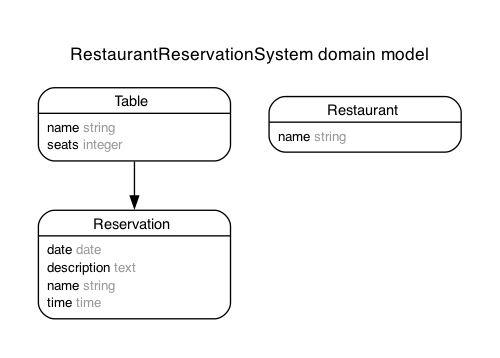
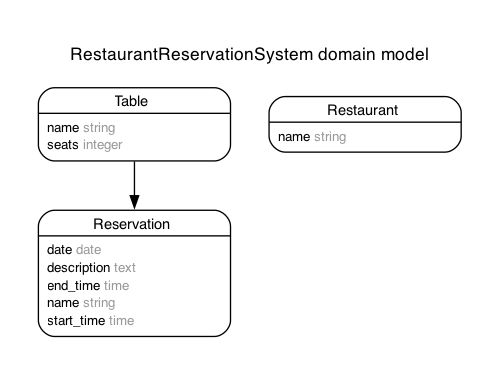
Add start_time and end_time to reservation - Updated sample data to include the start_time and end_time

diff --git a/db/schema.rb b/db/schema.rb
@@ -10,15 +10,16 @@
 #
 # It's strongly recommended that you check this file into your version control system.
 
-ActiveRecord::Schema[7.1].define(version: 2024_09_04_180216) do
+ActiveRecord::Schema[7.1].define(version: 2024_09_04_185956) do
   create_table "reservations", force: :cascade do |t|
     t.string "name"
     t.text "description"
     t.date "date"
-    t.time "time"
     t.datetime "created_at", null: false
     t.datetime "updated_at", null: false
     t.integer "table_id"
+    t.time "start_time"
+    t.time "end_time"
     t.index ["table_id"], name: "index_reservations_on_table_id"
   end
 

diff --git a/app/controllers/reservations_controller.rb b/app/controllers/reservations_controller.rb
@@ -65,6 +65,6 @@ class ReservationsController < ApplicationController
 
     # Only allow a list of trusted parameters through.
     def reservation_params
-      params.require(:reservation).permit(:name, :description, :date, :time, :table_id)
+      params.require(:reservation).permit(:name, :description, :date, :start_time, :end_time, :table_id)
     end
 end

diff --git a/db/migrate/20240904185956_add_start_time_and_end_time_to_reservations.rb b/db/migrate/20240904185956_add_start_time_and_end_time_to_reservations.rb
@@ -1,0 +1,7 @@
+class AddStartTimeAndEndTimeToReservations < ActiveRecord::Migration[7.1]
+  def change
+    remove_columns :reservations, :time, :time
+    add_column :reservations, :start_time, :time
+    add_column :reservations, :end_time, :time
+  end
+end

diff --git a/app/models/reservation.rb b/app/models/reservation.rb
@@ -1,3 +1,4 @@
 class Reservation < ApplicationRecord
   belongs_to :table
+  validates :start_time, :end_time, presence: true
 end
